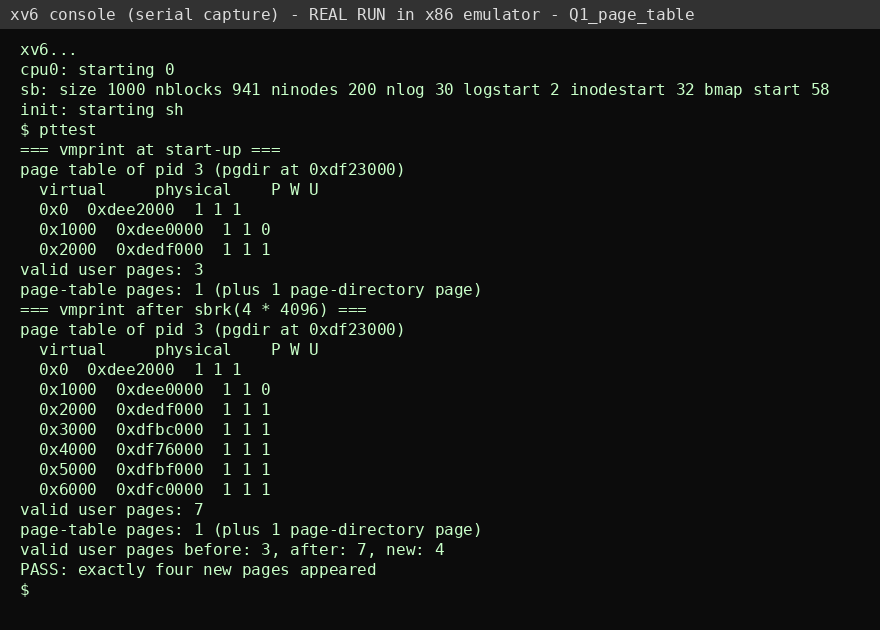
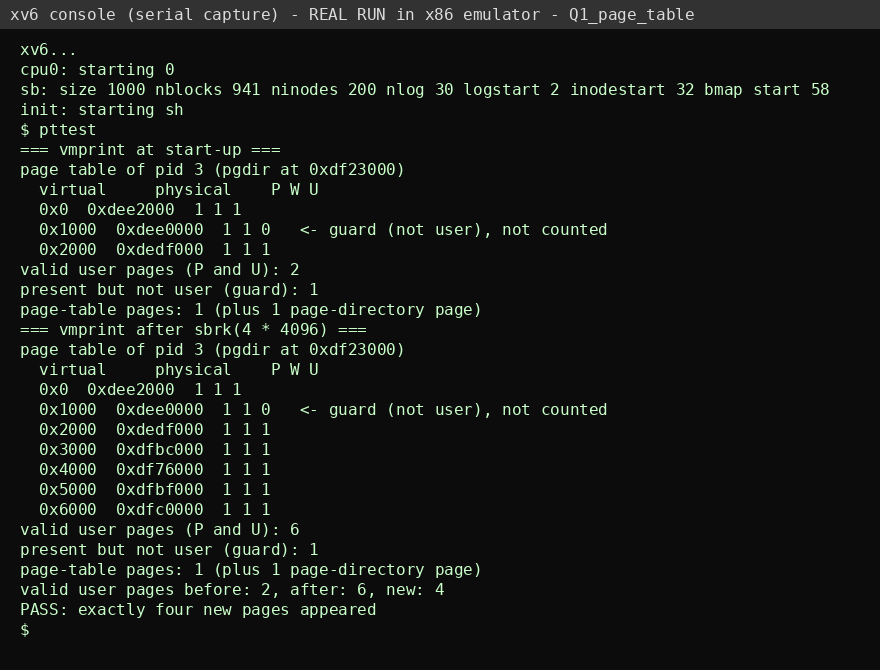
Q1: count only PTE_U pages, label guard page

Changed region(s): [[0.0, 0.0, 1.0, 0.9349], [0.3375, 0.6032, 0.7057, 0.6333], [0.3682, 0.3317, 0.7057, 0.3619]]

diff --git a/Q1_page_table/kernel/vm.c b/Q1_page_table/kernel/vm.c
@@ -216,17 +216,21 @@ loaduvm(pde_t *pgdir, char *addr, struct inode *ip, uint offset, uint sz)
   return 0;
 }
 
-// Assignment 9 Q1: print every valid user page of a page directory.
+// Assignment 9 Q1: print the user part of a page directory.
 // Walks the two-level page table the same way freevm() does (outer loop
 // over page-directory entries) and uses walkpgdir() for the inner lookup.
-// Only user addresses (below KERNBASE) are visited.
+// Only addresses below KERNBASE are visited.
+// A "valid user page" is a present mapping with PTE_U set. A present
+// mapping without PTE_U (the stack guard page that exec() makes with
+// clearpteu) is printed and marked "guard (not user)" but is NOT counted.
 // Returns the number of valid user pages.
 int
 vmprint(pde_t *pgdir)
 {
   uint va;
   uint pdi;
-  uint npages = 0;   // valid user pages
+  uint npages = 0;   // valid user pages (present and PTE_U)
+  uint nguard = 0;   // present but not user-accessible
   uint nptpages = 0; // second-level page-table pages in use
   pte_t *pte;
 
@@ -240,13 +244,20 @@ vmprint(pde_t *pgdir)
       pte = walkpgdir(pgdir, (void*)va, 0);
       if(pte == 0 || !(*pte & PTE_P))
         continue;
-      cprintf("  0x%x  0x%x  %d %d %d\n", va, PTE_ADDR(*pte),
+      cprintf("  0x%x  0x%x  %d %d %d", va, PTE_ADDR(*pte),
               (*pte & PTE_P) ? 1 : 0, (*pte & PTE_W) ? 1 : 0,
               (*pte & PTE_U) ? 1 : 0);
-      npages++;
+      if(*pte & PTE_U){
+        npages++;
+        cprintf("\n");
+      } else {
+        nguard++;
+        cprintf("   <- guard (not user), not counted\n");
+      }
     }
   }
-  cprintf("valid user pages: %d\n", npages);
+  cprintf("valid user pages (P and U): %d\n", npages);
+  cprintf("present but not user (guard): %d\n", nguard);
   cprintf("page-table pages: %d (plus 1 page-directory page)\n", nptpages);
   return npages;
 }

diff --git a/REPORT.md b/REPORT.md
@@ -1,6 +1,6 @@
 # Assignment 9 - Report
 
-**Q1 vmprint.** Added `sys_vmprint` (syscall 22), `vmprint()` in vm.c. It loops over page-directory entries below KERNBASE (like freevm), uses walkpgdir() per page, and prints virtual address, physical address and P/W/U. It ends with the count of valid user pages and page-table pages (1, plus the directory). pttest: 3 pages at start (text/data, a guard page with U=0, stack), 7 after sbrk(4*4096): exactly 4 new pages, PASS.
+**Q1 vmprint.** Added `sys_vmprint` (syscall 22), `vmprint()` in vm.c. It loops over page-directory entries below KERNBASE (like freevm), uses walkpgdir() per page, and prints virtual address, physical address and P/W/U. It ends with the count of valid user pages and page-table pages (1, plus the directory). A "valid user page" is present with PTE_U. The stack guard page (0x1000, present, U=0) is printed but marked guard and not counted. pttest: 2 user pages at start, 6 after sbrk(4*4096): exactly 4 new pages, PASS.
 
 **Q2 lazy allocation.** sys_sbrk now only increases `sz` for n>0 (shrinking still frees). copyuvm() skips never-allocated pages instead of panicking; deallocuvm() already skips non-present PTEs (commented). trap.c handles T_PGFLT: if rcr2() < sz and the page is not mapped, kalloc + memset + mappages(PTE_W|PTE_U), `pgfaults++`, resume; otherwise print pid and address and kill only that process. New `getfaults()` syscall. faulttest: sbrk(32*4096), touch 5 pages, 5 faults handled; a child touching an address above sz is killed, parent survives. mappages() was made non-static for use from trap.c.
 
